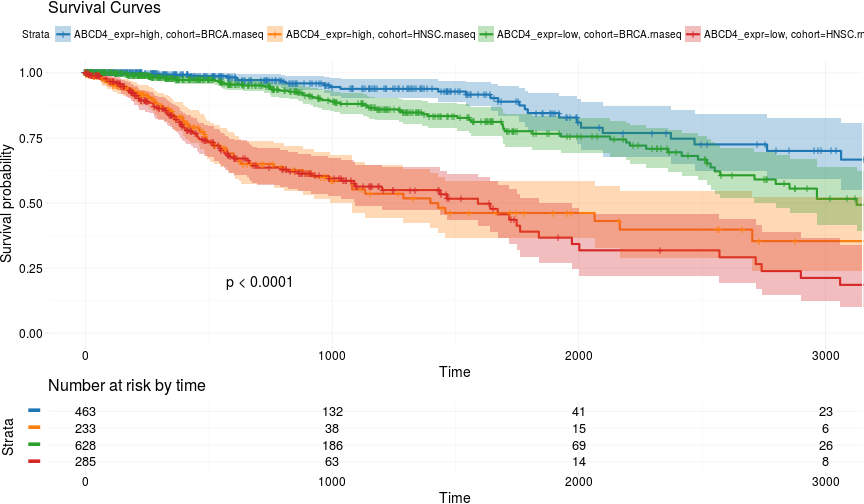
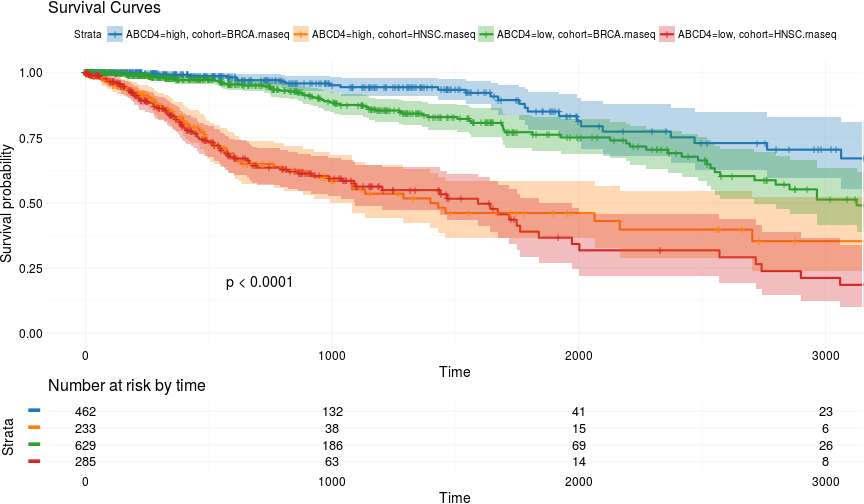
optimal cutpoints update

diff --git a/_posts/2016-11-21-Optimal-Cutpoint-maxstat.md b/_posts/2016-11-21-Optimal-Cutpoint-maxstat.md
@@ -188,7 +188,7 @@ Articles in which the maxstat statistics was used:
 Explanation of the selection process for the cutpoint is described [in this vignette, chapter 2](https://cran.r-project.org/web/packages/maxstat/vignettes/maxstat.pdf)
 
 
-Determining the optimal cutpoint for ABDC4 gene's expression
+Determining the optimal cutpoint for ABCD4 gene's expression
 
 
 {% highlight r %}
@@ -196,7 +196,7 @@ BRCA_HNSC.surv_rnaseq.cut <- surv_cutpoint(
    BRCA_HNSC.surv_rnaseq,
    time = "times",
    event = "patient.vital_status",
-   variables = c("ABCD4")
+   variables = c("ABCD4", "cohort")
 )
 summary(BRCA_HNSC.surv_rnaseq.cut)
 {% endhighlight %}
@@ -228,8 +228,7 @@ Categorize ABCD4 variable
 
 
 {% highlight r %}
-BRCA_HNSC.surv_rnaseq.cat <- BRCA_HNSC.surv_rnaseq %>%
-   mutate(ABCD4_expr = ifelse(ABCD4 >= summary(BRCA_HNSC.surv_rnaseq.cut)[1,1], "high", "low"))
+BRCA_HNSC.surv_rnaseq.cat <- surv_categorize(BRCA_HNSC.surv_rnaseq.cut) 
 {% endhighlight %}
 
 # Fit and visualize Kaplan-Meier estimates of survival curves 
@@ -243,7 +242,7 @@ RTCGA way
 {% highlight r %}
 RTCGA::kmTCGA(
    BRCA_HNSC.surv_rnaseq.cat, 
-   explanatory.names = c("ABCD4_expr", "cohort"),
+   explanatory.names = c("ABCD4", "cohort"),
    pval = TRUE,
    conf.int = TRUE,
    xlim = c(0,3000)
@@ -257,7 +256,7 @@ survminer way
 
 {% highlight r %}
 library(survival)
-fit <- survfit(Surv(times, patient.vital_status) ~ ABCD4_expr + cohort,
+fit <- survfit(Surv(times, patient.vital_status) ~ ABCD4 + cohort,
                data = BRCA_HNSC.surv_rnaseq.cat)
 ggsurvplot(
    fit,                     # survfit object with calculated statistics.
